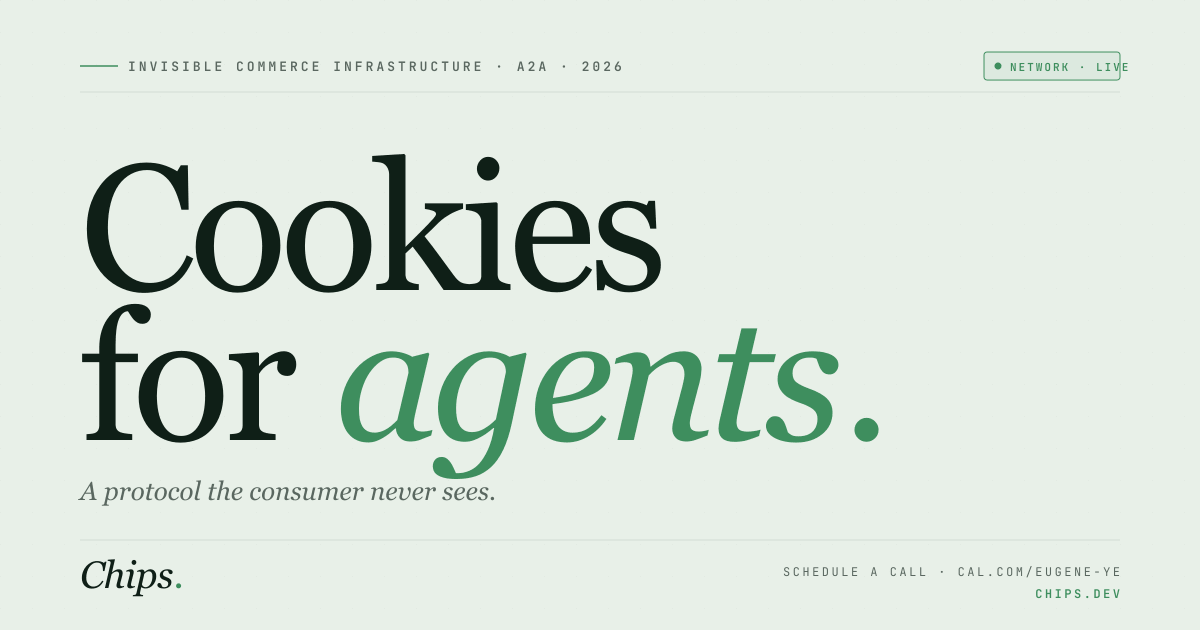
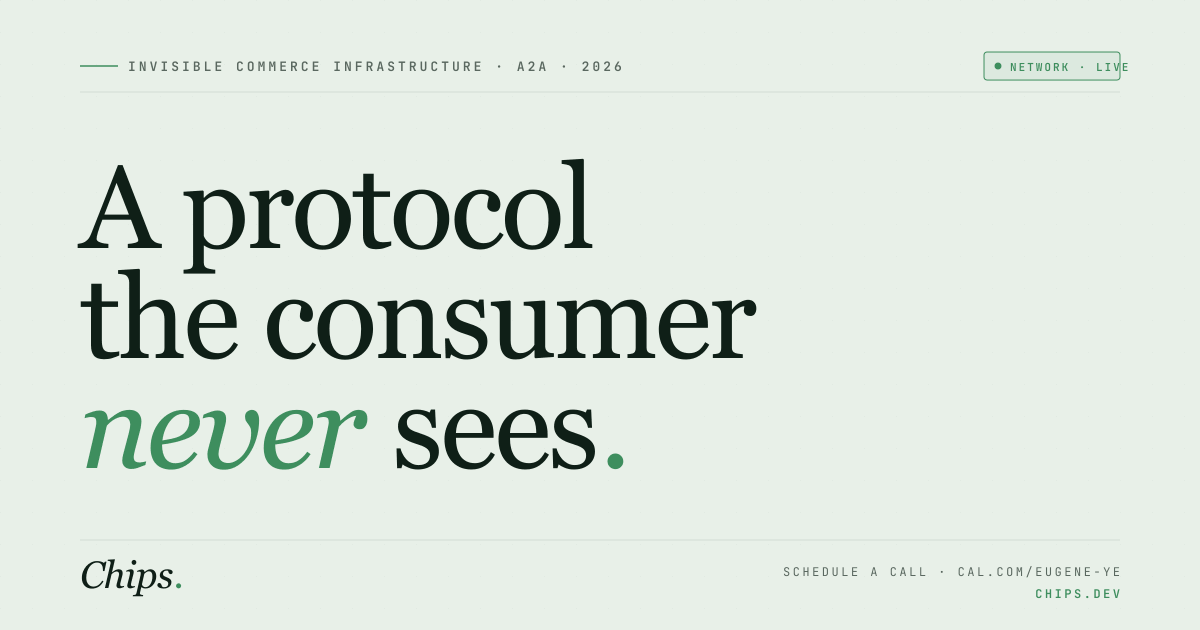
fix: re-anchor on 06.1, kill page jitter, replace dead email
Three issues addressed in one pass:

1. Positioning realigned on doc 06.1 (invisible commerce
   infrastructure). The previous "Cookies for agents." headline
   came from the deprecated consumer-facing pitch that 06.1 §8
   explicitly kills. New headline asserts the central paradox:
   "A protocol / the consumer / never sees." Sub line now carries
   the descriptor ("Invisible commerce infrastructure for the
   agentic web."), title tag updated. OG image regenerated with
   the new three-line headline.

2. Page jitter killed. Switchboard's .sb-feed-rows had only a
   min-height; every ~1.7s when a 7th row briefly co-existed
   during the 400ms fade-out, the feed area grew ~30px and the
   hero grid (align-items: center) re-centered, producing the
   vertical oscillation. Locked the rows container to a fixed
   height: 192px with overflow: hidden — the brief 7th row is
   clipped during its fade.

3. [email redacted] (which does not exist) replaced with the
   founders' personal Gmails ([email redacted] and
   [email redacted]) in all four call sites: hero CTA pair,
   closer CTA pair, footer meta, OG image generator. Each on-page
   spot uses a compact mail-pair wrapper with a dot separator.

Headline font-size clamp reduced (5.75rem max, was 7.5rem) so
the new 3-line headline fits the left column without overflow.

Changed region(s): [[0.0617, 0.2413, 0.74, 0.8143]]

diff --git a/scripts/gen-assets.ts b/scripts/gen-assets.ts
@@ -58,23 +58,21 @@ const ogSvg = `<svg xmlns="http://www.w3.org/2000/svg" viewBox="0 0 1200 630">
     </text>
   </g>
 
-  <!-- big serif headline · two lines -->
-  <text x="80" y="290"
+  <!-- big serif headline · three lines · paradox at the heart of 06.1 -->
+  <text x="80" y="248"
         font-family="'EB Garamond', 'Plantin MT Pro', Georgia, serif"
-        font-weight="400" font-size="180" fill="${INK}" letter-spacing="-6">
-    Cookies
+        font-weight="400" font-size="118" fill="${INK}" letter-spacing="-3">
+    A protocol
   </text>
-  <text x="80" y="440"
+  <text x="80" y="358"
         font-family="'EB Garamond', Georgia, serif"
-        font-weight="400" font-size="180" fill="${INK}" letter-spacing="-6">
-    for <tspan font-style="italic" fill="${EMERALD}">agents</tspan><tspan fill="${EMERALD}" font-style="normal">.</tspan>
+        font-weight="400" font-size="118" fill="${INK}" letter-spacing="-3">
+    the consumer
   </text>
-
-  <!-- subtitle -->
-  <text x="80" y="500"
+  <text x="80" y="468"
         font-family="'EB Garamond', Georgia, serif"
-        font-style="italic" font-size="26" fill="${SLATE}">
-    A protocol the consumer never sees.
+        font-weight="400" font-size="118" fill="${INK}" letter-spacing="-3">
+    <tspan font-style="italic" fill="${EMERALD}">never</tspan> sees<tspan fill="${EMERALD}" font-style="normal">.</tspan>
   </text>
 
   <!-- bottom strip -->